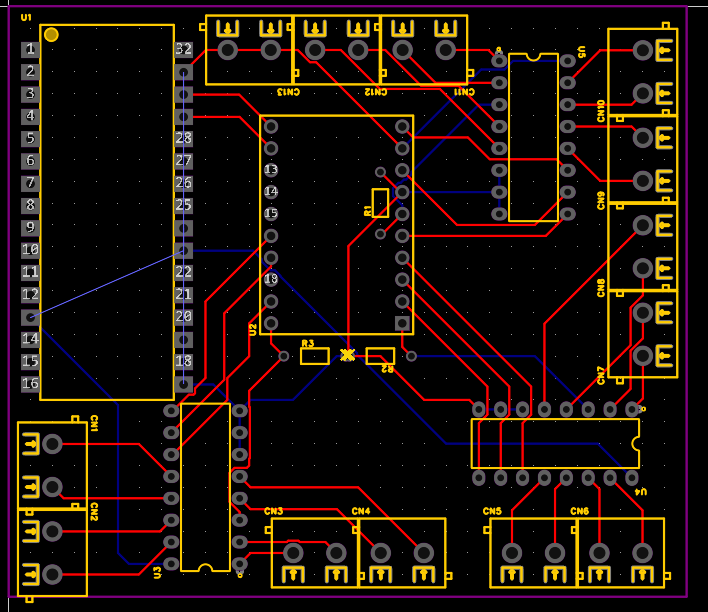
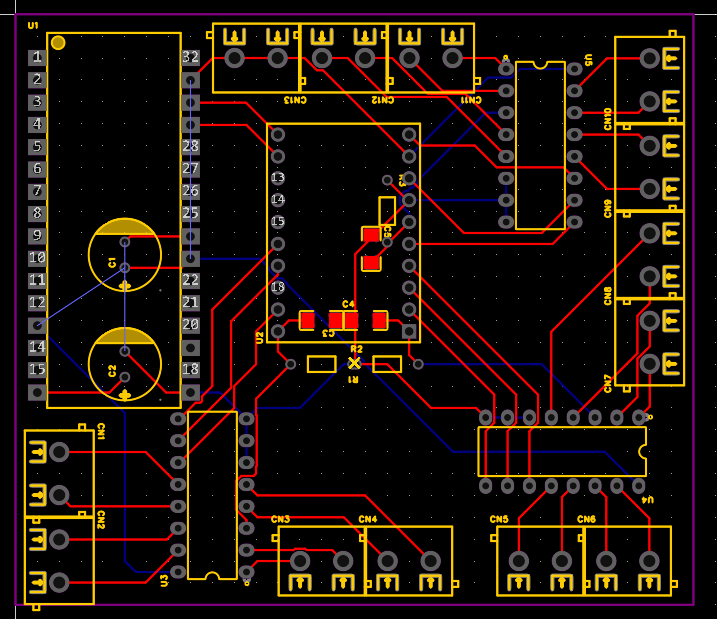
updated docs for cipher box

diff --git a/projects/cipher_box/README.md b/projects/cipher_box/README.md
@@ -49,7 +49,8 @@
 ![Рисунок схемы](scheme_2.png)
 
 ### Схема для распайки платы
-Синие дорожки (обратной стороны) припаивать через провода, остальное как удобно, ибо не пересекается.
+Синие дорожки (обратной стороны) припаивать через провода, остальное как удобно, ибо не пересекается.\
+Конденсаторы нужны для уменьшения помех при чтении АЦП, так же надо дать им время зарядится и разрядится при чтении, 10 мс хватит за глаза. Так же на питании конденсаторы улучшают стабильность I2C ибо все на 3.3В завязано.\
 ![Рисунок распайки](board_2.PNG)
 
 Пример распайки
